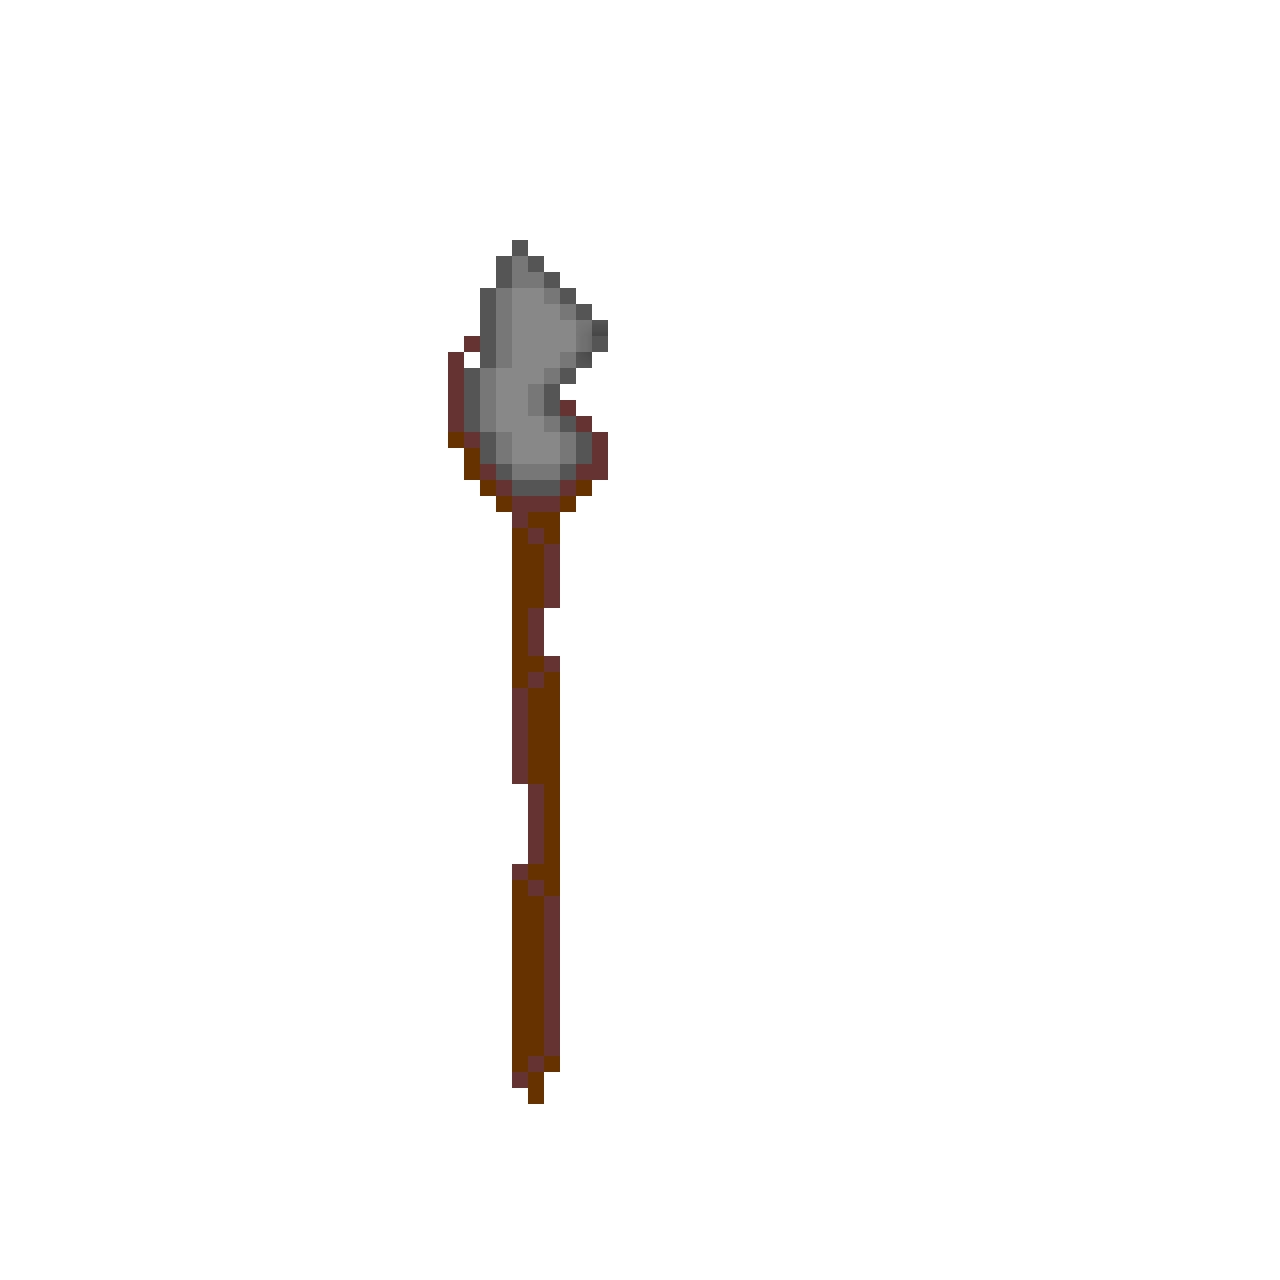
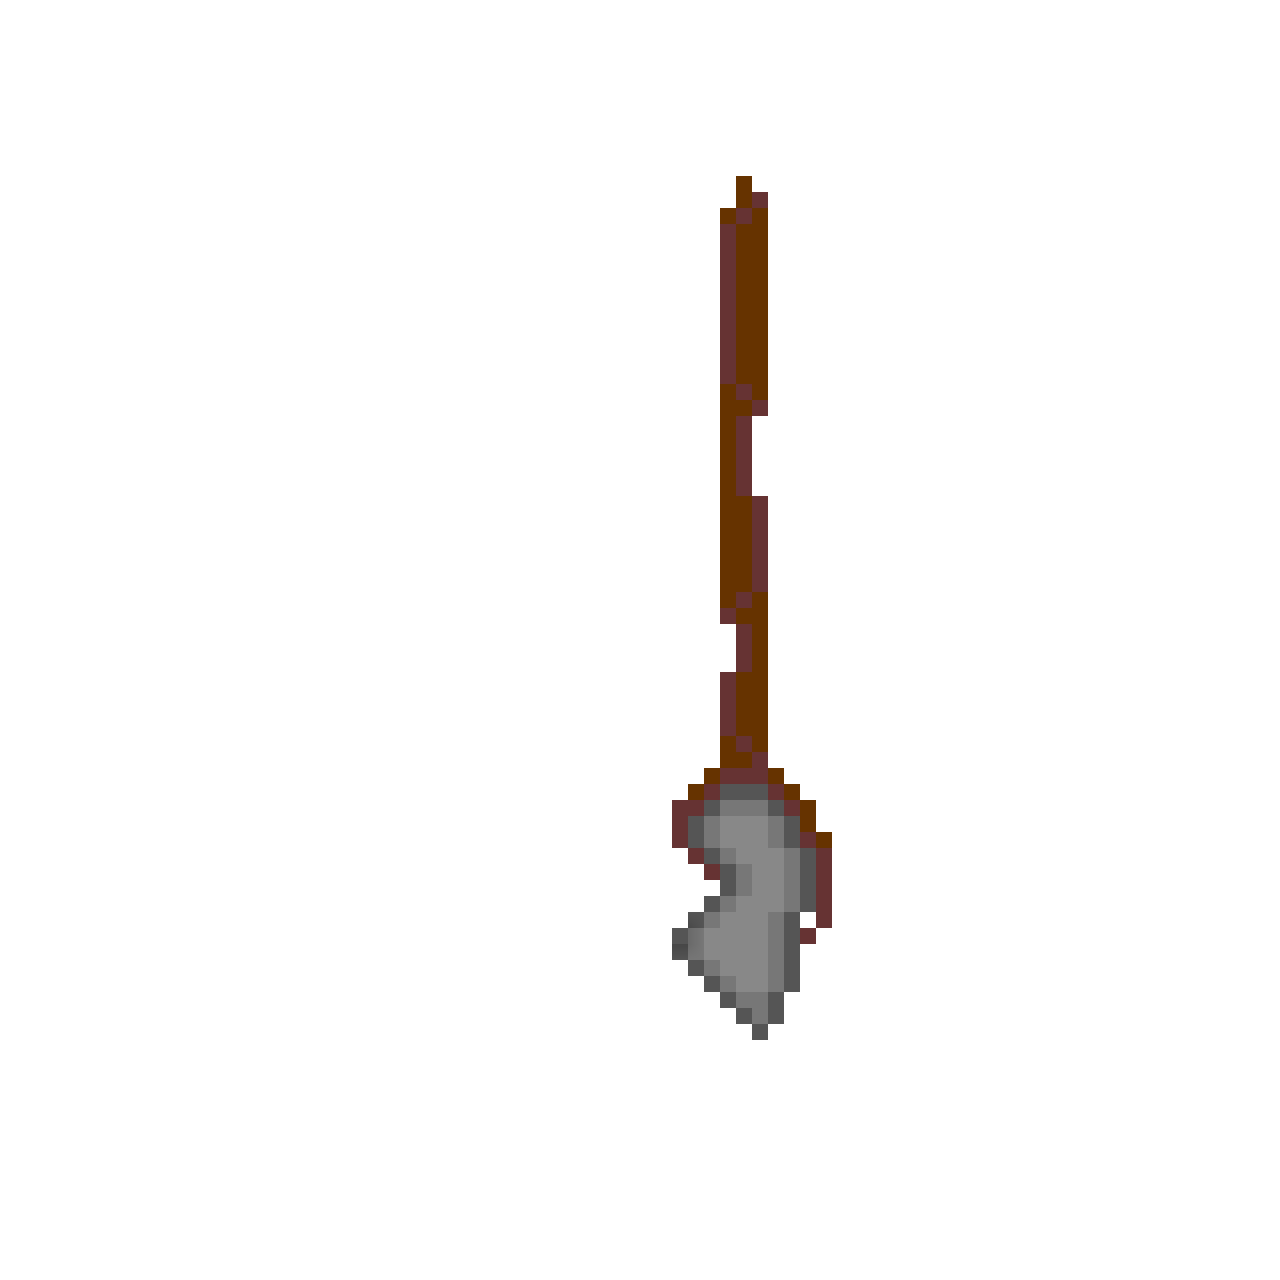
"Inventory" added
added the "inventory", just a quick way to change the wands

Changed region(s): [[0.5, 0.125, 0.6562, 0.8125], [0.3438, 0.1875, 0.5, 0.875]]

diff --git a/Personal Project/Assets/Scripts/Wands/BaseWand.cs b/Personal Project/Assets/Scripts/Wands/BaseWand.cs
@@ -4,24 +4,30 @@ using UnityEngine;
 
 public class BaseWand : MonoBehaviour
 {
+    [Header("References")]
     [SerializeField] private Sprite _fireWandFirst;
     [SerializeField] private Sprite _waterWandFirst;
+    [SerializeField] private Sprite _rockWand;
     [SerializeField] private GameObject _offSet;
     [SerializeField] private ParticleSystem _flamePrefab;
     [SerializeField] private Auto _fireAutoPrefab;
     [SerializeField] private WaterBubble _waterAutoPrefab;
-    //[SerializeField] private float _launchVelocity;
 
-    private ParticleSystem _flame;
-    private Auto _fireAutoInstance;
-    private WaterBubble _waterAutoInstance;
+
+    [Header("Bools")]
     [SerializeField] private bool _canShoot = true;
     [SerializeField] private bool _canShootFlame = true;
     [SerializeField] private bool _canShootWater = true;
     [SerializeField] private bool _canShootWaterJet = true;
     [SerializeField] private bool _isFire = true;
     [SerializeField] private bool _isWater = false;
+    [SerializeField] private bool _isRock = false;
+
+
     private bool _isItDual = true;
+    private ParticleSystem _flame;
+    private Auto _fireAutoInstance;
+    private WaterBubble _waterAutoInstance;
 
     // Start is called before the first frame update
     void Start()
@@ -34,9 +40,10 @@ public class BaseWand : MonoBehaviour
     {
         Attack();
         ChangeSprite();
+        ChangeWand();
     }
 
-    protected virtual void ChangeSprite()
+    private void ChangeSprite()
     {
         if (Input.GetKeyDown(KeyCode.C) && _isFire == true && _isItDual == true)
         {
@@ -51,6 +58,16 @@ public class BaseWand : MonoBehaviour
             _isWater = false;
         }
     }
+
+    private void ChangeWand()
+    {
+        if(Input.GetKeyDown(KeyCode.Alpha2))
+        {
+            GetComponent<SpriteRenderer>().sprite = _rockWand;
+            _isRock= true;
+        }
+    }
+
 
     protected virtual void Attack()
     {
